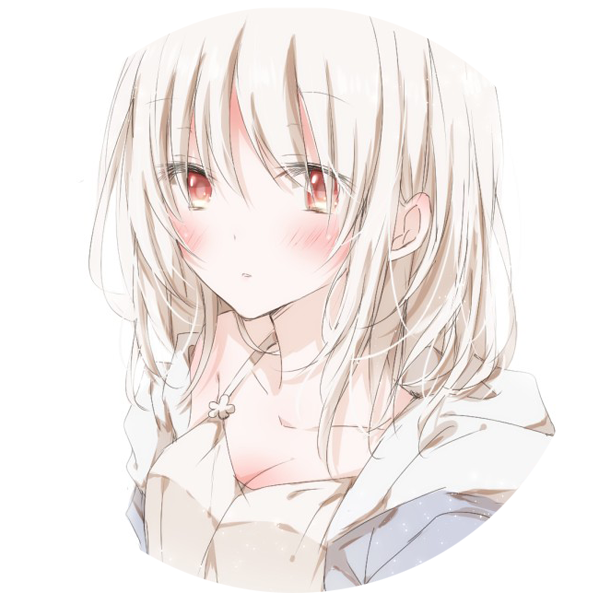
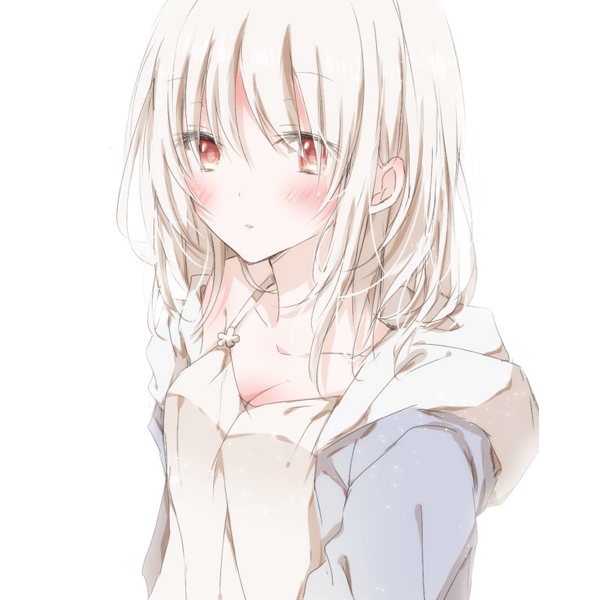
Site updated: 2019-12-12 21:21:25

Changed region(s): [[0.15, 0.0, 0.93, 1.0], [0.3, 0.99, 0.33, 1.0]]

diff --git a/index.html b/index.html
@@ -269,7 +269,7 @@
     <span hidden itemprop="author" itemscope itemtype="http://schema.org/Person">
       <meta itemprop="name" content="守夜">
       <meta itemprop="description" content="">
-      <meta itemprop="image" content="/uploads/avatar_black.png">
+      <meta itemprop="image" content="/uploads/avatar_white.png">
     </span>
 
     <span hidden itemprop="publisher" itemscope itemtype="http://schema.org/Organization">
@@ -419,7 +419,7 @@
     <span hidden itemprop="author" itemscope itemtype="http://schema.org/Person">
       <meta itemprop="name" content="守夜">
       <meta itemprop="description" content="">
-      <meta itemprop="image" content="/uploads/avatar_black.png">
+      <meta itemprop="image" content="/uploads/avatar_white.png">
     </span>
 
     <span hidden itemprop="publisher" itemscope itemtype="http://schema.org/Organization">
@@ -565,7 +565,7 @@
     <span hidden itemprop="author" itemscope itemtype="http://schema.org/Person">
       <meta itemprop="name" content="守夜">
       <meta itemprop="description" content="">
-      <meta itemprop="image" content="/uploads/avatar_black.png">
+      <meta itemprop="image" content="/uploads/avatar_white.png">
     </span>
 
     <span hidden itemprop="publisher" itemscope itemtype="http://schema.org/Organization">
@@ -715,7 +715,7 @@
     <span hidden itemprop="author" itemscope itemtype="http://schema.org/Person">
       <meta itemprop="name" content="守夜">
       <meta itemprop="description" content="">
-      <meta itemprop="image" content="/uploads/avatar_black.png">
+      <meta itemprop="image" content="/uploads/avatar_white.png">
     </span>
 
     <span hidden itemprop="publisher" itemscope itemtype="http://schema.org/Organization">
@@ -885,7 +885,7 @@
           <div class="site-author motion-element" itemprop="author" itemscope itemtype="http://schema.org/Person">
             
               <img class="site-author-image" itemprop="image"
-                src="/uploads/avatar_black.png"
+                src="/uploads/avatar_white.png"
                 alt="守夜" />
             
               <p class="site-author-name" itemprop="name">守夜</p>

diff --git a/2019/12/12/Hadoop-常见错误/index.html b/2019/12/12/Hadoop-常见错误/index.html
@@ -271,7 +271,7 @@
     <span hidden itemprop="author" itemscope itemtype="http://schema.org/Person">
       <meta itemprop="name" content="守夜">
       <meta itemprop="description" content="">
-      <meta itemprop="image" content="/uploads/avatar_black.png">
+      <meta itemprop="image" content="/uploads/avatar_white.png">
     </span>
 
     <span hidden itemprop="publisher" itemscope itemtype="http://schema.org/Organization">
@@ -464,7 +464,7 @@
           <div class="site-author motion-element" itemprop="author" itemscope itemtype="http://schema.org/Person">
             
               <img class="site-author-image" itemprop="image"
-                src="/uploads/avatar_black.png"
+                src="/uploads/avatar_white.png"
                 alt="守夜" />
             
               <p class="site-author-name" itemprop="name">守夜</p>

diff --git a/2019/12/12/Hadoop-数据分析排序/index.html b/2019/12/12/Hadoop-数据分析排序/index.html
@@ -271,7 +271,7 @@
     <span hidden itemprop="author" itemscope itemtype="http://schema.org/Person">
       <meta itemprop="name" content="守夜">
       <meta itemprop="description" content="">
-      <meta itemprop="image" content="/uploads/avatar_black.png">
+      <meta itemprop="image" content="/uploads/avatar_white.png">
     </span>
 
     <span hidden itemprop="publisher" itemscope itemtype="http://schema.org/Organization">
@@ -487,7 +487,7 @@
           <div class="site-author motion-element" itemprop="author" itemscope itemtype="http://schema.org/Person">
             
               <img class="site-author-image" itemprop="image"
-                src="/uploads/avatar_black.png"
+                src="/uploads/avatar_white.png"
                 alt="守夜" />
             
               <p class="site-author-name" itemprop="name">守夜</p>

diff --git a/2019/12/12/Hadoop-数据挖掘/index.html b/2019/12/12/Hadoop-数据挖掘/index.html
@@ -271,7 +271,7 @@
     <span hidden itemprop="author" itemscope itemtype="http://schema.org/Person">
       <meta itemprop="name" content="守夜">
       <meta itemprop="description" content="">
-      <meta itemprop="image" content="/uploads/avatar_black.png">
+      <meta itemprop="image" content="/uploads/avatar_white.png">
     </span>
 
     <span hidden itemprop="publisher" itemscope itemtype="http://schema.org/Organization">
@@ -481,7 +481,7 @@
           <div class="site-author motion-element" itemprop="author" itemscope itemtype="http://schema.org/Person">
             
               <img class="site-author-image" itemprop="image"
-                src="/uploads/avatar_black.png"
+                src="/uploads/avatar_white.png"
                 alt="守夜" />
             
               <p class="site-author-name" itemprop="name">守夜</p>

diff --git a/2019/12/12/hello-world/index.html b/2019/12/12/hello-world/index.html
@@ -271,7 +271,7 @@
     <span hidden itemprop="author" itemscope itemtype="http://schema.org/Person">
       <meta itemprop="name" content="守夜">
       <meta itemprop="description" content="">
-      <meta itemprop="image" content="/uploads/avatar_black.png">
+      <meta itemprop="image" content="/uploads/avatar_white.png">
     </span>
 
     <span hidden itemprop="publisher" itemscope itemtype="http://schema.org/Organization">
@@ -469,7 +469,7 @@
           <div class="site-author motion-element" itemprop="author" itemscope itemtype="http://schema.org/Person">
             
               <img class="site-author-image" itemprop="image"
-                src="/uploads/avatar_black.png"
+                src="/uploads/avatar_white.png"
                 alt="守夜" />
             
               <p class="site-author-name" itemprop="name">守夜</p>

diff --git a/css/main.css b/css/main.css
@@ -1742,6 +1742,9 @@ pre .javascript .function {
   max-width: 120px;
   height: auto;
   border: 1px solid #eee;
+  border-radius: 10%;
+  -webkit-border-radius: 20%;
+  -moz-border-radius: 20%;
 }
 .site-author-name {
   margin: 0;
@@ -1823,7 +1826,7 @@ pre .javascript .function {
   width: 4px;
   height: 4px;
   border-radius: 50%;
-  background: #525852;
+  background: #f15bda;
 }
 .links-of-blogroll {
   font-size: 13px;

diff --git a/about/index.html b/about/index.html
@@ -391,7 +391,7 @@
           <div class="site-author motion-element" itemprop="author" itemscope itemtype="http://schema.org/Person">
             
               <img class="site-author-image" itemprop="image"
-                src="/uploads/avatar_black.png"
+                src="/uploads/avatar_white.png"
                 alt="守夜" />
             
               <p class="site-author-name" itemprop="name">守夜</p>

diff --git a/archives/2019/12/index.html b/archives/2019/12/index.html
@@ -461,7 +461,7 @@
           <div class="site-author motion-element" itemprop="author" itemscope itemtype="http://schema.org/Person">
             
               <img class="site-author-image" itemprop="image"
-                src="/uploads/avatar_black.png"
+                src="/uploads/avatar_white.png"
                 alt="守夜" />
             
               <p class="site-author-name" itemprop="name">守夜</p>

diff --git a/archives/2019/index.html b/archives/2019/index.html
@@ -461,7 +461,7 @@
           <div class="site-author motion-element" itemprop="author" itemscope itemtype="http://schema.org/Person">
             
               <img class="site-author-image" itemprop="image"
-                src="/uploads/avatar_black.png"
+                src="/uploads/avatar_white.png"
                 alt="守夜" />
             
               <p class="site-author-name" itemprop="name">守夜</p>

diff --git a/archives/index.html b/archives/index.html
@@ -461,7 +461,7 @@
           <div class="site-author motion-element" itemprop="author" itemscope itemtype="http://schema.org/Person">
             
               <img class="site-author-image" itemprop="image"
-                src="/uploads/avatar_black.png"
+                src="/uploads/avatar_white.png"
                 alt="守夜" />
             
               <p class="site-author-name" itemprop="name">守夜</p>

diff --git a/categories/Doc/index.html b/categories/Doc/index.html
@@ -331,7 +331,7 @@
           <div class="site-author motion-element" itemprop="author" itemscope itemtype="http://schema.org/Person">
             
               <img class="site-author-image" itemprop="image"
-                src="/uploads/avatar_black.png"
+                src="/uploads/avatar_white.png"
                 alt="守夜" />
             
               <p class="site-author-name" itemprop="name">守夜</p>

diff --git a/categories/code/index.html b/categories/code/index.html
@@ -387,7 +387,7 @@
           <div class="site-author motion-element" itemprop="author" itemscope itemtype="http://schema.org/Person">
             
               <img class="site-author-image" itemprop="image"
-                src="/uploads/avatar_black.png"
+                src="/uploads/avatar_white.png"
                 alt="守夜" />
             
               <p class="site-author-name" itemprop="name">守夜</p>
